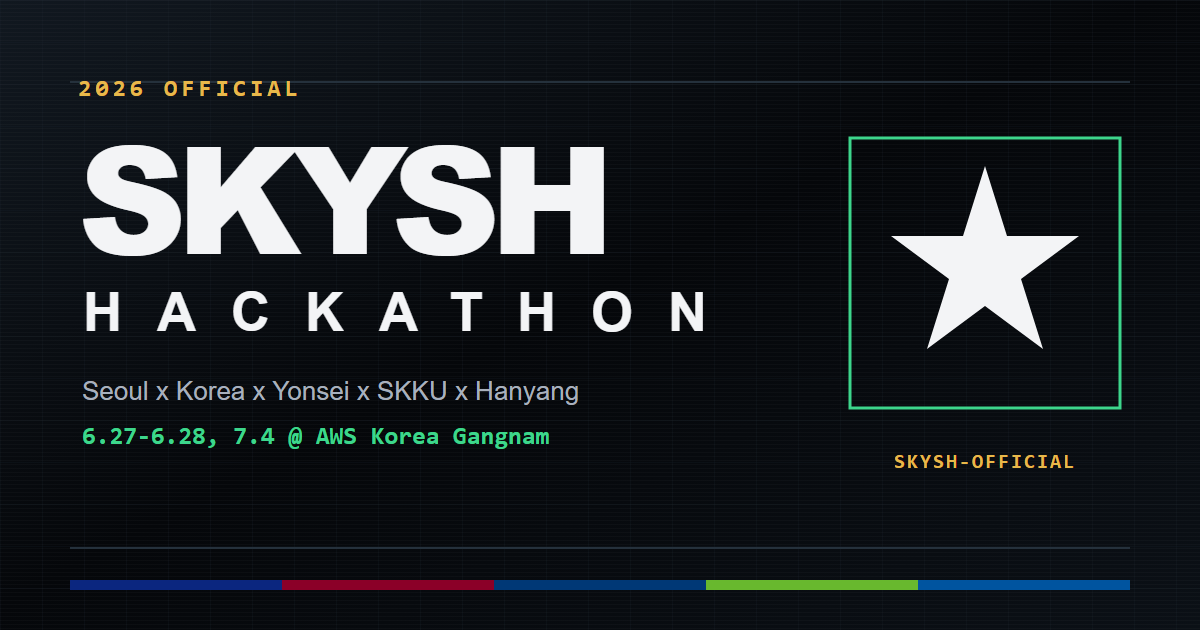
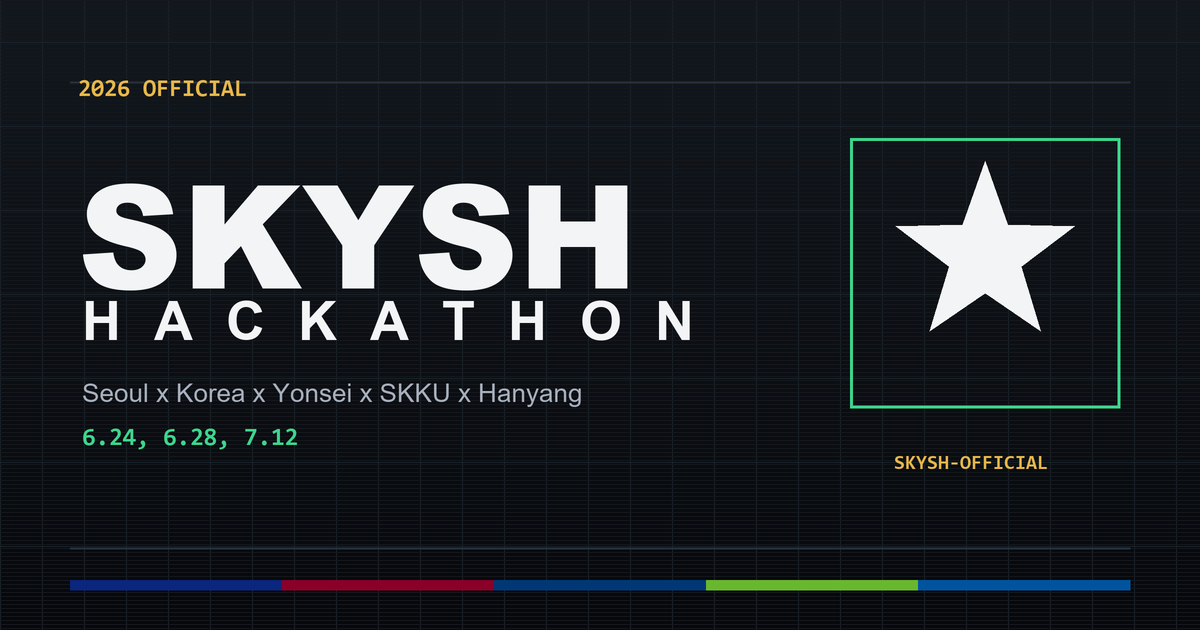
Add files via upload

diff --git a/src/components/landing/Tracks.tsx b/src/components/landing/Tracks.tsx
@@ -1,0 +1,88 @@
+import { Section, SectionLabel, SectionTitle } from "@/components/landing/Section";
+import {
+  TRACK_CHECKPOINTS,
+  TRACKS,
+  UPBIT_GUIDE,
+  UPBIT_RESOURCES,
+} from "@/lib/tracks";
+
+export default function Tracks() {
+  return (
+    <Section id="tracks" className="section-muted border-t border-[var(--border)]">
+      <div className="grid gap-8 lg:grid-cols-[minmax(0,0.9fr)_minmax(0,1.1fr)] lg:gap-12">
+        <div className="min-w-0">
+          <SectionLabel>주제</SectionLabel>
+          <SectionTitle className="section-title-wide">
+            업비트 생태계 위에서 설계하는{" "}
+            <span className="font-mono text-terminal-green">프로덕트 트랙</span>
+          </SectionTitle>
+          <p className="mt-4 max-w-xl text-sm leading-relaxed text-[var(--muted)]">
+            공포와 탐욕, 정보와 시간의 비대칭처럼 투자 경험을 어렵게 만드는
+            변수를 기술로 다루는 프로덕트를 제안해 주세요.
+          </p>
+
+          <p className="mt-6 font-mono text-xs uppercase tracking-wider text-[var(--muted)]">
+            공식 리소스
+          </p>
+          <div className="mt-2 grid gap-2 sm:grid-cols-2 lg:grid-cols-1">
+            {UPBIT_RESOURCES.map((resource) => (
+              <a
+                key={resource.href}
+                href={resource.href}
+                target="_blank"
+                rel="noreferrer"
+                className="flex min-h-11 items-center justify-between gap-4 border border-[var(--border)] bg-[var(--bg-elevated)]/60 px-4 font-mono text-xs text-[var(--fg)] transition hover:border-terminal-green hover:text-terminal-green"
+              >
+                <span>{resource.label}</span>
+                <span aria-hidden="true">↗</span>
+              </a>
+            ))}
+          </div>
+        </div>
+
+        <div className="grid gap-4">
+          <div className="grid gap-4 md:grid-cols-2">
+            {TRACKS.map((track) => (
+              <article
+                key={track.title}
+                className="flex min-h-[16rem] flex-col border border-[var(--border)] bg-[var(--bg-elevated)] p-5 sm:p-6"
+              >
+                <p className="font-mono text-xs font-semibold uppercase tracking-wider text-terminal-amber">
+                  {track.title}
+                </p>
+                <h3 className="mt-3 text-xl font-bold leading-tight">{track.subtitle}</h3>
+                <p className="mt-4 flex-1 text-sm leading-relaxed text-[var(--muted)]">
+                  {track.body}
+                </p>
+              </article>
+            ))}
+          </div>
+
+          <article className="emphasis-panel emphasis-panel--theme">
+            <p className="emphasis-label">공통 가이드</p>
+            <h3 className="mt-3 text-xl font-bold leading-tight">{UPBIT_GUIDE.title}</h3>
+            <p className="mt-3 text-sm leading-relaxed text-[var(--muted)]">
+              {UPBIT_GUIDE.body}
+            </p>
+            <p className="mt-2 font-mono text-xs leading-relaxed text-terminal-amber">
+              {UPBIT_GUIDE.note}
+            </p>
+            <ul className="mt-5 grid gap-4">
+              {TRACK_CHECKPOINTS.map((item) => (
+                <li key={item.title} className="flex gap-3 text-sm leading-relaxed">
+                  <span className="mt-1.5 h-1.5 w-1.5 shrink-0 bg-terminal-green" />
+                  <span>
+                    <span className="block font-semibold text-[var(--fg)]">
+                      {item.title}
+                    </span>
+                    <span className="mt-1 block text-[var(--muted)]">{item.body}</span>
+                  </span>
+                </li>
+              ))}
+            </ul>
+          </article>
+        </div>
+      </div>
+    </Section>
+  );
+}

diff --git a/src/lib/tracks.ts b/src/lib/tracks.ts
@@ -1,0 +1,44 @@
+export const TRACKS = [
+  {
+    title: "Emotion",
+    subtitle: "기술로 공포와 탐욕을 다루기",
+    body: "투자에서 가장 제어하기 힘든 '인간의 감정'은 기술을 통해 통제할 수도, 반대로 대중의 심리를 읽어내 강력한 지표로 활용할 수도 있습니다. 감정이라는 변수를 지배하고 활용하는 새로운 프로덕트를 설계해 보세요.",
+  },
+  {
+    title: "Beyond Asymmetry",
+    subtitle: "정보·시간·경험의 비대칭을 넘어",
+    body: "시간이 부족한 사람도, 투자에 일가견이 없는 사람에게도 투자가 친절해질 수 있을까요? 정보·시간·경험의 비대칭성을 넘을 수 있도록 돕는 도구를 고민해 보세요. (예. 정보 제공 툴)",
+  },
+] as const;
+
+export const UPBIT_GUIDE = {
+  title: "업비트 생태계 위에서 마음껏 놀아보세요!",
+  body: "여러분의 창의적인 아이디어를 현실로 만들어 줄 업비트의 공식 리소스들을 적극 활용해 보세요.",
+  note: "어떤 리소스를 어떻게 활용했는지 최종 발표에 명시해 주세요.",
+} as const;
+
+export const UPBIT_RESOURCES = [
+  {
+    label: "업비트 개발자 센터",
+    href: "https://docs.upbit.com/kr",
+  },
+  {
+    label: "업비트 공식 GitHub",
+    href: "https://github.com/upbit-official",
+  },
+] as const;
+
+export const TRACK_CHECKPOINTS = [
+  {
+    title: "BM 타당성을 고려하세요 (현실성 체크!)",
+    body: "좋은 아이디어가 실제 서비스가 되기 위해서는 개인정보, 보안, 관련 법령, 이용약관, 사용자 보호 등 다양한 현실적 조건을 통과해야 합니다. 팀의 아이디어가 세상에 안착하려면 어떤 설계가 필요한지도 함께 고민해 주세요.",
+  },
+  {
+    title: "서비스화 최소 체크포인트",
+    body: "사용자의 API Key나 Secret Key를 서버에 직접 저장하지 않는 구조로 설계해 주세요. 필요한 경우 사용자의 로컬 환경에 저장/구동되도록 안전하게 설계해 주세요.",
+  },
+  {
+    title: "결과물의 형태에는 제약이 없습니다",
+    body: "웹앱, 모바일 웹, 데스크톱 앱, CLI, AI Agent, MCP(Model Context Protocol), 데이터 대시보드, 브라우저 확장 도구, 로컬 스크립트 등 아이디어를 가장 잘 담을 수 있는 그릇을 자유롭게 선택하세요.",
+  },
+] as const;

diff --git a/src/components/landing/Hero.tsx b/src/components/landing/Hero.tsx
@@ -1,6 +1,7 @@
 "use client";
 
 import { HACKATHON } from "@/lib/hackathon";
+import { TRACKS } from "@/lib/tracks";
 import SkyshWordmark from "@/components/landing/SkyshWordmark";
 import { useFinalPhaseActive } from "@/components/landing/useFinalPhaseActive";
 
@@ -44,8 +45,30 @@ export default function Hero() {
               </a>
             </div>
             <p className="mt-3 font-mono text-xs leading-relaxed text-terminal-amber">
-              접수 마감은 6/20(토)입니다.
+              접수 마감은 6/23(화)입니다.
             </p>
+
+            <div className="mt-5 max-w-2xl">
+              <p className="font-mono text-xs uppercase tracking-wider text-[var(--muted)]">
+                주제
+              </p>
+              <div className="mt-2 grid gap-2 sm:grid-cols-2">
+                {TRACKS.map((track) => (
+                  <a
+                    key={track.title}
+                    href="#tracks"
+                    className="group min-w-0 border border-[var(--border)] bg-[var(--bg-elevated)]/45 p-3 transition hover:border-terminal-green hover:bg-[var(--bg-elevated)]/75"
+                  >
+                    <p className="font-mono text-xs font-semibold uppercase tracking-wider text-terminal-amber">
+                      {track.title}
+                    </p>
+                    <p className="mt-1 text-sm font-bold leading-tight text-[var(--fg)] group-hover:text-terminal-green">
+                      {track.subtitle}
+                    </p>
+                  </a>
+                ))}
+              </div>
+            </div>
           </div>
 
           <div className="emphasis-panel emphasis-panel--theme min-w-0 break-words lg:sticky lg:top-[calc(var(--site-header-h)+1rem)]">

diff --git a/src/lib/hackathon.ts b/src/lib/hackathon.ts
@@ -6,10 +6,10 @@ export const HACKATHON = {
   registrationUrl: "https://forms.gle/2a6LBfbEY715mCPw7",
   instagramUrl: "https://www.instagram.com/skysh_official",
   instagramHandle: "@skysh_official",
-  dates: "6.22, 6.28, 7.12",
+  dates: "6.24, 6.28, 7.12",
   phase1Place: "올댓마인드 문래점",
   finalPlace: "AWS Korea 강남 사옥",
-  confirmationDate: "6.22(월)",
+  confirmationDate: "6.24(수)",
   sponsors: [
     {
       name: "AWS",
@@ -34,8 +34,8 @@ export const HACKATHON = {
   ],
   schedule: [
     {
-      date: "6.22",
-      day: "월",
+      date: "6.24",
+      day: "수",
       title: "참가자 확정 및 안내",
       sub: "선발 결과와 행사 세부 안내",
       phase: "notice" as const,
@@ -90,7 +90,7 @@ export const HACKATHON = {
     { rank: "특별상", prize: "10만원" },
   ],
   application: {
-    period: "접수 마감 6/20(토)",
+    period: "접수 마감 6/23(화)",
     target: "서울대·고려대·연세대·성균관대·한양대 재학생·휴학생·대학원생",
     teamRule: "개인 또는 2-4명 팀으로 신청할 수 있습니다",
     personalRule:

diff --git a/src/components/landing/FAQ.tsx b/src/components/landing/FAQ.tsx
@@ -8,11 +8,11 @@ const AWARD_SUMMARY = HACKATHON.awards
 const FAQS = [
   {
     q: "참가자 확정 및 안내는 언제인가요?",
-    a: "참가자 확정 결과와 행사 세부 안내는 6.22(월)에 전달됩니다.",
+    a: "참가자 확정 결과와 행사 세부 안내는 6.24(수)에 전달됩니다.",
   },
   {
     q: "접수 마감은 언제인가요?",
-    a: "접수는 6/20(토)에 마감됩니다.",
+    a: "접수는 6/23(화)에 마감됩니다.",
   },
   {
     q: "누가 참가할 수 있나요?",

diff --git a/src/components/landing/Schedule.tsx b/src/components/landing/Schedule.tsx
@@ -88,7 +88,7 @@ export default function Schedule() {
       <div className="mt-8 grid gap-4 sm:mt-10 lg:grid-cols-3">
         <ScheduleCard
           badge="안내"
-          date="6.22 (월)"
+          date="6.24 (수)"
           title="참가자 확정 및 안내"
           place={DETAILS.notice.place}
           summary="선발 결과와 행사 안내"
@@ -129,7 +129,7 @@ export default function Schedule() {
           />
         </div>
         <div className="mt-2 flex justify-between font-mono text-xs text-[var(--muted)]">
-          <span>6.22 참가자 확정 및 안내</span>
+          <span>6.24 참가자 확정 및 안내</span>
           <span className="text-terminal-amber">AWS 멘토링</span>
           <span>7.12 2차 최종 발표</span>
         </div>

diff --git a/src/app/page.tsx b/src/app/page.tsx
@@ -2,6 +2,7 @@ import Nav from "@/components/landing/Nav";
 import Hero from "@/components/landing/Hero";
 import Highlights from "@/components/landing/Highlights";
 import Schedule from "@/components/landing/Schedule";
+import Tracks from "@/components/landing/Tracks";
 import Benefits from "@/components/landing/Benefits";
 import About from "@/components/landing/About";
 import Hosts from "@/components/landing/Hosts";
@@ -21,6 +22,7 @@ export default function Home() {
         <Hero />
         <Highlights />
         <Schedule />
+        <Tracks />
         <Benefits />
         <Apply />
         <About />

diff --git a/src/components/landing/Highlights.tsx b/src/components/landing/Highlights.tsx
@@ -2,7 +2,7 @@ const ITEMS = [
   {
     key: "notice",
     label: "참가자 확정 및 안내",
-    value: "6.22(월)",
+    value: "6.24(수)",
     href: "#schedule",
     accent: "amber" as const,
   },

diff --git a/src/components/landing/Nav.tsx b/src/components/landing/Nav.tsx
@@ -6,6 +6,7 @@ import SkyshWordmark from "@/components/landing/SkyshWordmark";
 
 const LINKS = [
   { href: "#schedule", label: "일정" },
+  { href: "#tracks", label: "주제" },
   { href: "#benefits", label: "혜택" },
   { href: "#about", label: "소개" },
   { href: "#hosts", label: "주관" },